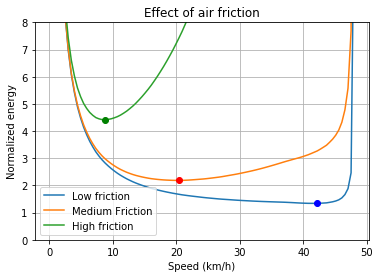
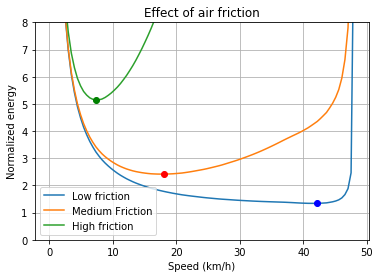
Update

diff --git a/_posts/2020-01-08-simulation.md b/_posts/2020-01-08-simulation.md
@@ -5,13 +5,12 @@ date: 2020-01-08 18:44:53
 category: Study
 tags: [simulation]
 ---
-
 Riding your electric bike, you suddenly face a long, steep road. What strategy to adopt in order to minimize the energy needed to climb it? Slow or fast?
 This script computes the energy requirements for the ascent of a electrically-driven bike using a hub motor. Because the efficiency depends strongly on the rotational speed, low speed in ascent is not necessarily associated with a good energy management. The objective of the notebook is to estimate the optimal speed minimizing the overall energy use, using a very simplified model. The work was originally done in a Jupyter notebook (<a href="/assets/others/OptimalSpeed.ipynb" download>available for download</a>) and the Python code is made visible above the output Figures. I am open to constructive comments and suggestions concerning this short study. Just contact me!
 
 The model used here accounts for three energy sinks:
 * The gravity force: $$F_g=mg\sin\theta$$, where $$\theta$$ is the inclination angle of the road, $$m$$ the mass of the rolling assembly and $$g$$ is the gravitational acceleration, assumed at 9.81 $$ms^{-2}$$
-* The air friction force, assuming a turbulent regime: $$F_f=\dfrac{1}{2}C_xA\rho v^2$$. $$C_x$$ is the friction coeeficient associated to the shape, $$A$$ if the projected area normal to the velocity vector and $$v$$ is the velocity.
+* The air friction force, assuming a turbulent regime: $$F_f=\dfrac{1}{2}C_xA\rho v^2$$. $$C_x$$ is the friction coefficient associated to the shape, $$A$$ if the projected area normal to the velocity vector and $$v$$ is the velocity.
 * The Joule dissipation in the wiring, transformed in an equivalent force: $$F_e = \dfrac{1}{v}(\dfrac{P_{el,motor}}{U_{batt}})^2 R$$. $$P_{el,motor}$$ designates the electric power consumed by the motor and $$U_{batt}$$ the voltage of the battery, and $$R$$ is the overall resistance of the electric circuit, which should include the internal resistance of the batteries.
 
 To get the energy needed, one would divide $$F_g$$ and $$F_f$$ by the efficiency $$\eta(v)$$ and add $$F_e$$ to it, and then integrate spatially over the route. Obviously, reducing the energy by the distance leads back to the concept of force, as energy per unit distance.
@@ -21,6 +20,8 @@ Unless specified differently, the base case will work with the following paramet
 * Overall electrical resistance: 1 $$\Omega$$
 * Road inclination: 5%
 * Nominal battery voltage: 50V
+
+
 
 
 ```python
@@ -36,11 +37,10 @@ a = mat['a']
 U = 50 # Battery voltage (V)
 R = 1 #Circuit resistance (Ohm)
 m = 110 # Vehicle mass (kg)
-FairCoeff = 0.5*(1 *1.2) #Coefficient of friction for turbulent regime
 ```
 
 ## Motor efficiency as a function of speed
-The data recovered from the online motor simulation tool is recovered and displayed here. The motor is the All-Axle Hub Motor from Grin-Tech [(link)](https://www.ebikes.ca/product-info/all-axle-hub-motor.html) and the data comes from their motor simulator, based on the model 9C+2707 with 48V batteries.
+The data recovered from the online motor simulation tool is recovered and displayed here. The motor is the All-Axle Hub Motor from Grin-Tech (https://www.ebikes.ca/product-info/all-axle-hub-motor.html) and the data comes from their motor simulator, based on the model 9C+2707 with 48V batteries.
 
 
 ```python
@@ -57,7 +57,7 @@ plt.show()
 ```
 
 
-![png](/assets/images/output_3_0.png)
+![png](output_3_0.png)
 
 
 ## Energy demand computation
@@ -70,9 +70,9 @@ The obtained energy will therefore tell of much many time more energy will would
 
 ### Influence of air friction
 
-In the expression of the air friction force, the product $$C_x A$$ bears a large uncertainty, since it is difficult to estimate for a complex shape such as a bike. Therefore, we can assume a conservative estimate and then vary its value to address its influence on the result.
+In the expression of the air friction force, the product $$C_x A$$ bears a large uncertainty, since it is difficult to estimate for a complex shape such as a bike. Therefore, we can assume a conservative estimate and then vary its value to adress its influence on the result.
 
-The following bloc of code computes the normalized energy as a function of speed for three cases: a medium friction case estimating $$C_x= 0.5$$ and $$A=1$$ $$\text{m}^2$$. A inclination of 5% is arbistrarily chosen for the road.
+The following bloc of code computes the normalized energy as a function of speed for three cases: a medium friction case estimating $$C_x= 1.5$$ and $$A=0.5$$ $$\text{m}^2$$. A inclination of 5% is arbitrarily chosen for the road.
 
 
 ```python
@@ -80,7 +80,7 @@ v = np.linspace(0.1,48,100)
 f = interpolate.interp1d(a[:,0],a[:,1])
 rend = f(v)/100
 
-FairCoeff = 0.5*(1 *1.2)
+FairCoeff = 1.5*(0.5 *1.2)
 
 
 def SpecificEnergy(slope,m,v,rend,FairCoeff,U,R):
@@ -119,7 +119,7 @@ plt.show()
 ```
 
 
-![png](/assets/images/output_5_0.png)
+![png](output_5_0.png)
 
 
 The larger the air friction, the smaller the speed minimizing the energy, since the importance of the motor inefficiency is reduced compared to this other type of loss. With no friction, the best point is the one close to the point of maximum motor efficiency. For the medium case, a speed of approximately 20 km/h appears the most economic one. However, deviating from this exact speed is no big deal since the curvature is locally small: going at 15 or 25 km/h will barely affect the energy demand.
@@ -154,7 +154,7 @@ plt.show()
 ```
 
 
-![png](/assets/images/output_7_0.png)
+![png](output_7_0.png)
 
 
 Interestingly enough, a strong slope encourages a higher speed, as the aerodynamic force is increasingly dominated by the gravitational force, magnifying the relative importance of the motor efficiency. Therefore, the steeper the road, the faster one should drive in order to minimize the energy demand. This can be very surprising at first sight, but makes sense in the end.
@@ -189,10 +189,10 @@ plt.show()
 ```
 
 
-![png](/assets/images/output_9_0.png)
+![png](output_9_0.png)
 
 
-There is a negligible difference between 0.1 and the nominal case 1$$\Omega$$, with the same optimal speed as before, in the vicinity of 20 km/h. However, a resistance of 10$$\Omega$$ reduces significantly the optimal speed, since a lower speed will slightly reduce the electric current flowing in the circuit.
+There is a negligible difference between 0.1 and the nominal case 1$$\Omega$$, with the same optimal speed as before, in the vicinity of 20 km/h. Howver, a resistance of 10$$\Omega$$ reduces significantly the optimal speed, since a lower speed will slightly reduce the electric current flowing in the circuit.
 
 ## Conclusion
 The main point of this short study is to show that when it comes to going uphill with a hub motor, one should go at a relatively large speed in order to minimize the overall energy consumption. One should not go slowly thinking it will be energetically advantageous. Because the gear ratio between the wheel and the motor is fixed, the motor efficiency will be significantly affected at low speed and will increase the overall energy need. At higher speed however, the total energy needed is comparatively reduced, although the electric power drawn from the battery will be higher. For the simplified model considered here, a speed between 17 and 20 km/h seems to be a reasonable speed when trying to minimize the energy needs. Very aerodynamic bikes might even benefit from larger speeds.
